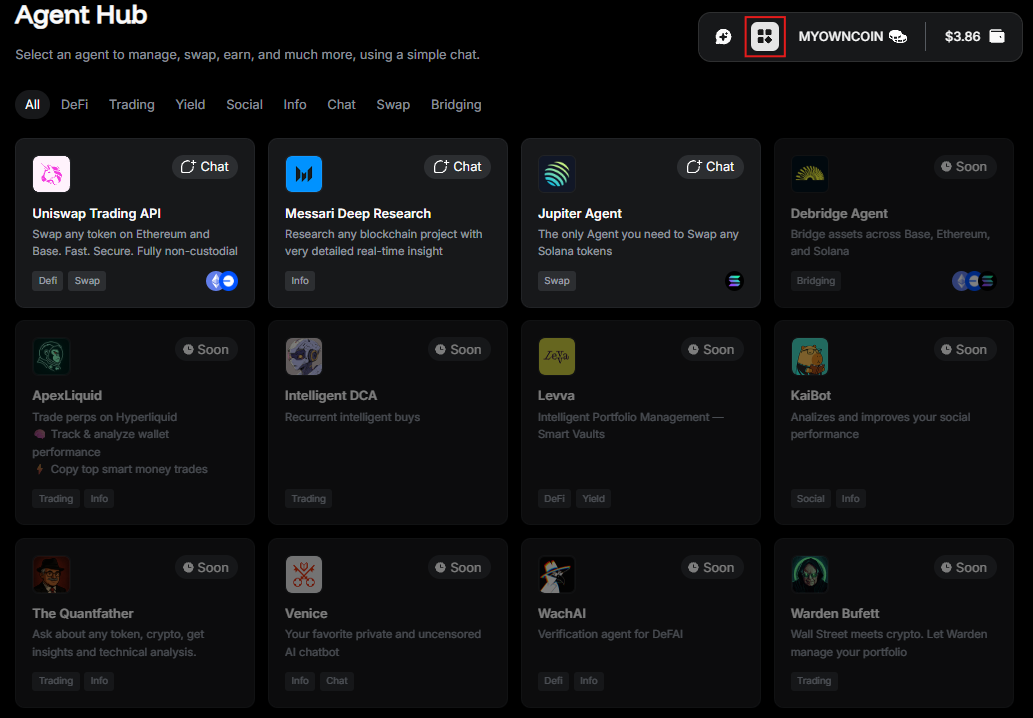
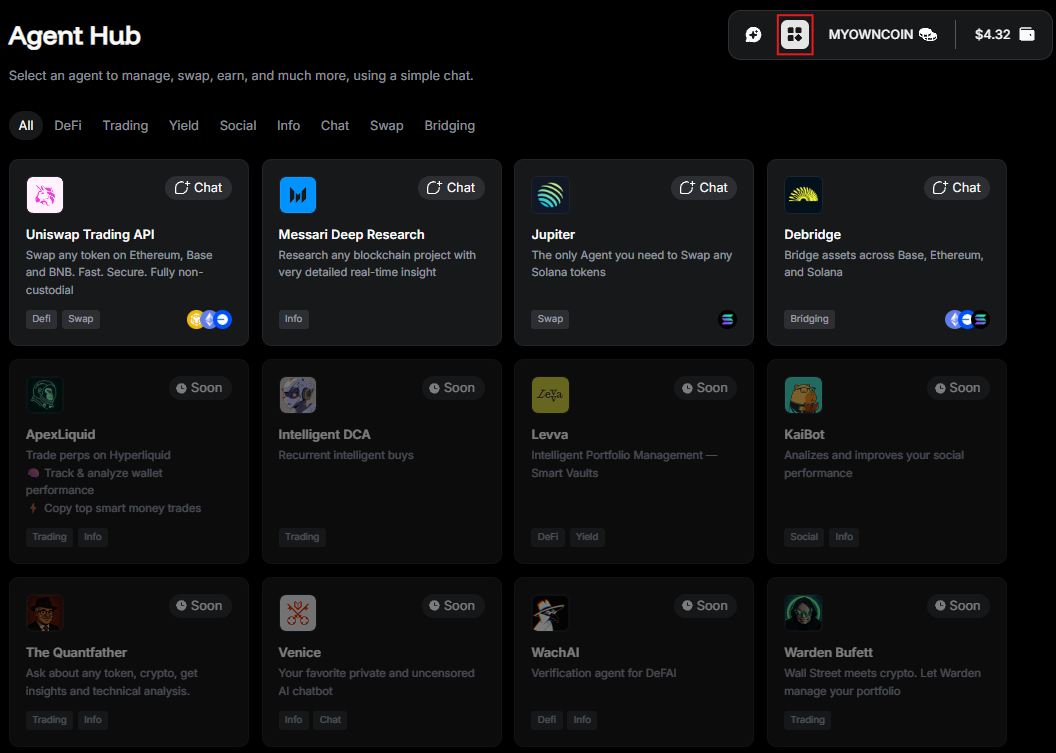
Docs wa debridge (#1680)
* added bnb

* added deBridge and BNB

* updated screenshots

* fixed broken anchors

* added info on debridge fees

diff --git a/docs/help-center/docs/warden-app/explore-ai-agents.md b/docs/help-center/docs/warden-app/explore-ai-agents.md
@@ -28,9 +28,9 @@ Alternatively, you can access Agents directly from the chat screen. Use the drop
 
 ## Available Agents
 
-### Warden AMA Agent
+### Warden AMA
 
-The **Warden AMA Agent** is the default Agent you see when logging in to Warden. It's not displayed in the Agent Hub, but you can always switch to it in the [chat](use-the-chat).
+The **Warden AMA** Agent is the default Agent you see when logging in to Warden. It's not displayed in the Agent Hub, but you can always switch to it in the [chat](use-the-chat).
 
 This Agent performs all your Web3 transactions and handles other tasks:
 
@@ -39,11 +39,12 @@ This Agent performs all your Web3 transactions and handles other tasks:
 - Generates an image based on a text description
 - Answers any questions about Warden and the [Warden Protocol](https://docs.wardenprotocol.org)
 
-Supported networks:
+Networks:
 
 - **Ethereum**
 - **Solana**
 - **Base**
+- **BNB Smart Chain (BSC)**
 
 Fees: [swap](fees#swap-fees) and [transfer fees](fees#transfer-fees).
 
@@ -57,10 +58,11 @@ Just specify the network, currency pair, and amount in the chat, and the Agent w
 - Exchange tokens for each other
 - Send ETH or any token to a destination address
 
-Supported networks:
+Networks:
 
 - **Ethereum**
 - **Base**
+- **BNB Smart Chain (BSC)**
 
 Fees: [swap](fees#swap-fees) and [transfer fees](fees#transfer-fees).
 
@@ -76,9 +78,9 @@ Use this Agent to research any blockchain project with detailed, real-time insig
 
 Fees: [Messari fees](fees#messari-fees).
 
-### Jupiter Agent
+### Jupiter
 
-The **Jupiter Agent** integrates with the [Jupiter Exchange](https://jup.ag)—a decentralized exchange (DEX) aggregator built on the Solana blockchain. This is the only Agent you need to send and swap any Solana tokens.
+The **Jupiter** Agent integrates with the [Jupiter Exchange](https://jup.ag)—a decentralized exchange (DEX) aggregator built on the Solana blockchain. This is the only Agent you need to send and swap any Solana tokens.
 
 Just specify the amount and other details in the chat, and the Agent will do the rest:
 
@@ -86,15 +88,34 @@ Just specify the amount and other details in the chat, and the Agent will do the
 - Swap tokens for each other
 - Send SOL or any token to a destination address
 
-Supported networks: **Solana**.
+Networks: **Solana**.
 
 Fees: [swap](fees#swap-fees) and [transfer fees](fees#transfer-fees).
+
+### deBridge
+
+The **deBridge** Agent integrates with [deBridge](https://debridge.finance), facilitating secure and precise cross-chain token transfers. You can bridge tokens (native or USDC) between any of the supported networks. All transactions require confirmation.
+
+Networks:
+
+- **Ethereum**
+- **Base**
+- **Solana**
+- **BNB Smart Chain (BSC)**
+
+Tokens:
+
+- **ETH**
+- **SOL**
+- **BNB**
+- **USDC**
+
+Fees: [deBridge fees](fees#debridge-fees).
 
 ### Coming soon
 
 The Agent lineup keeps growing. Here's what to expect next:
 
-- **DeBridge**
 - **ApexLiquid**
 - **Intelligent DCA**
 - **Levva**

diff --git a/docs/help-center/docs/warden-app/fees.md b/docs/help-center/docs/warden-app/fees.md
@@ -23,7 +23,7 @@ All swaps incur these fees:
 | Fee type      | Amount | Currency           | Description                                              |
 | ------------- | -------|--------------------| -------------------------------------------------------- |
 | Gas fee       | varies | native coin        | A fee paid to the network for processing the transaction |
-| Platform fee  | 0.85%  | input/output token | A percentage charged by Warden                           |
+| Platform fee  | 0.85%  | input/output token | A percentage charged by Warden     
 
 ## Other
 
@@ -40,3 +40,14 @@ The Agent charges fees in the first available currency in this order of priority
 - **USDC** on Solana, Base, or Ethereum
 - **SOL** on Solana
 - **ETH** on Base or Ethereum
+
+### deBridge fees
+
+All [deBridge](explore-ai-agents#debridge) transactions incur these fees:
+
+| Fee type               | Amount                       | Currency            | Description                                                      |
+| -----------------------| -----------------------------|---------------------| ---------------------------------------------------------------- |
+| Gas fee                | varies                       | native coin         | A fee paid to the source network for processing the transaction  |
+| deBridge flat fee      | fixed; periodically adjusted | native coin         | A fee paid to deBridge validators for processing the transaction |
+| deBeridge protocol fee | 0.04%                        | input token         | A percentage charged by the deBridge protocol                    |
+| Platform fee           | 0.85%                        | input/output token  | A percentage charged by Warden                                   |

diff --git a/docs/help-center/docs/warden-app/manage-assets.md b/docs/help-center/docs/warden-app/manage-assets.md
@@ -17,7 +17,7 @@ You can access your balances and activity in the [wallet](manage-your-wallet):
 3. You'll see the **Assets** tab with a detailed breakdown of your balances.
 4. To explore your activity history and transaction details, navigate to the **Activity** tab.
 
-Alternatively, you can ask the default [Warden AMA Agent](explore-ai-agents#warden-ama-agent) about your balances.
+Alternatively, you can ask the default [Warden AMA Agent](explore-ai-agents#warden-ama) about your balances.
 
 ![Access your wallet in Warden](../../static/img/warden-app/manage-your-wallet-1.png)
 ![View your balance and activity in Warden](../../static/img/warden-app/manage-your-wallet-2.png)
@@ -50,7 +50,7 @@ In Warden, you can send or swap assets using simple **chat commands**:
 
 1. Log in: 👉 [Warden](https://app.wardenprotocol.org)
 2. Make sure your [wallet is funded](#deposit-assets).
-3. In the [chat box](use-the-chat), ask the [Warden AMA Agent](explore-ai-agents#warden-ama-agent) to **send** or **swap** an asset.
+3. In the [chat box](use-the-chat), ask the [Warden AMA Agent](explore-ai-agents#warden-ama) to **send** or **swap** an asset.
 4. Provide the required details and confirm the transaction in the chat.
 5. The Agent will share the transaction details with you. You can also check your [activity history](#view-the-balance--activity).
 

diff --git a/docs/help-center/docs/warden-app/use-the-chat.md b/docs/help-center/docs/warden-app/use-the-chat.md
@@ -10,11 +10,11 @@ The **AI-powered chat** is the primary way to interact with Warden.
 
 Use simple chat commands to send and swap your assets, check your balance, and ask anything about the app, Warden Protocol, or the crypto market.
 
-You can either start chatting with the default **Warden AMA Agent** or choose another available [AI Agent](explore-ai-agents).
+You can either start chatting with the default **Warden AMA** Agent or choose another available [AI Agent](explore-ai-agents).
 
 ## Start chatting
 
-Once you log in to [Warden](https://app.wardenprotocol.org), you'll see a chat with the AI-powered [Warden AMA Agent](explore-ai-agents#warden-ama-agent). 
+Once you log in to [Warden](https://app.wardenprotocol.org), you'll see a chat with the AI-powered [Warden AMA Agent](explore-ai-agents#warden-ama). 
 
 To start interacting, just type your request in the chat box. For example, to perform a transaction, [fund your wallet](manage-assets#deposit-assets) and ask Warden to [send or swap an asset](manage-assets#send-or-swap-assets):
 

diff --git a/docs/help-center/docs/warden-app/quick-start.md b/docs/help-center/docs/warden-app/quick-start.md
@@ -14,7 +14,7 @@ The following is a brief overview explaining how to get started and experience t
 
 ![Access your wallet in Warden](../../static/img/warden-app/manage-your-wallet-1.png)
 
-3. 👉 [Swap assets](manage-assets#send-or-swap-assets): In the [chat box](use-the-chat), ask the [Warden AMA Agent](explore-ai-agents#warden-ama-agent) to swap **0.001 SOL** for **USDC**, or specify a different token and amount.
+3. 👉 [Swap assets](manage-assets#send-or-swap-assets): In the [chat box](use-the-chat), ask the [Warden AMA Agent](explore-ai-agents#warden-ama) to swap **0.001 SOL** for **USDC**, or specify a different token and amount.
 
 4. Confirm the transaction in the chat. The AI will share the transaction details with you.
 

diff --git a/docs/help-center/docs/warden-app/introduction.md b/docs/help-center/docs/warden-app/introduction.md
@@ -45,6 +45,7 @@ At the moment, Warden supports the following networks:
 - **Ethereum**
 - **Solana**
 - **Base**
+- **BNB Smart Chain (BSC)**
 
 More chains are coming soon—stay tuned!
 
